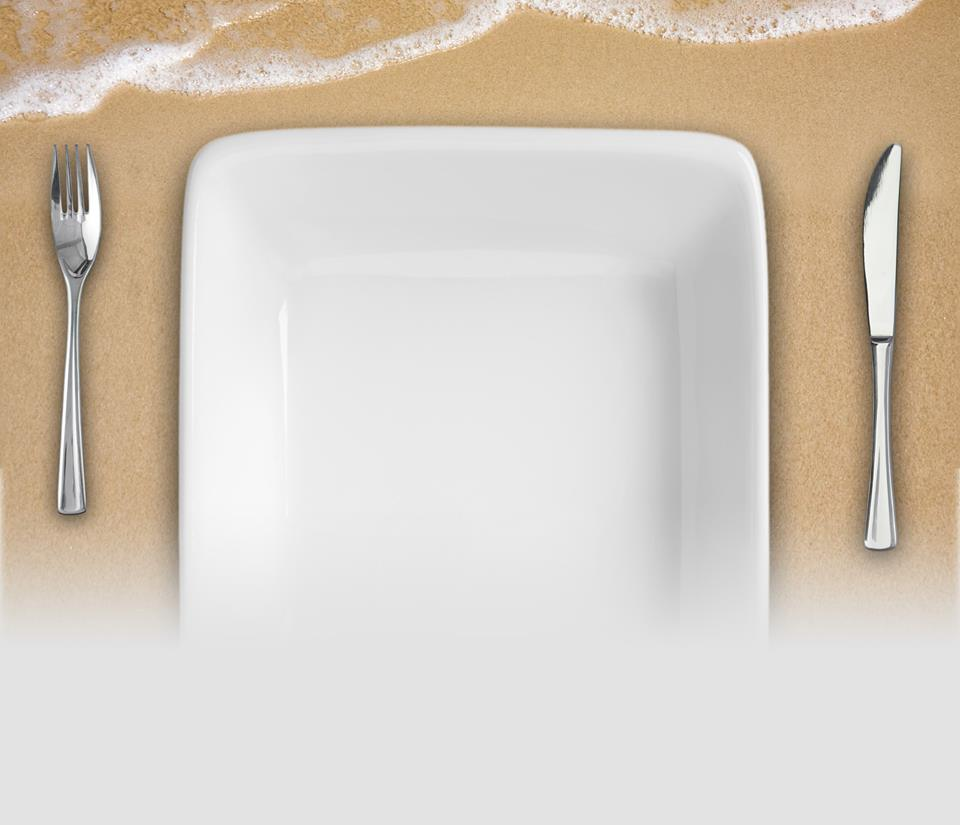
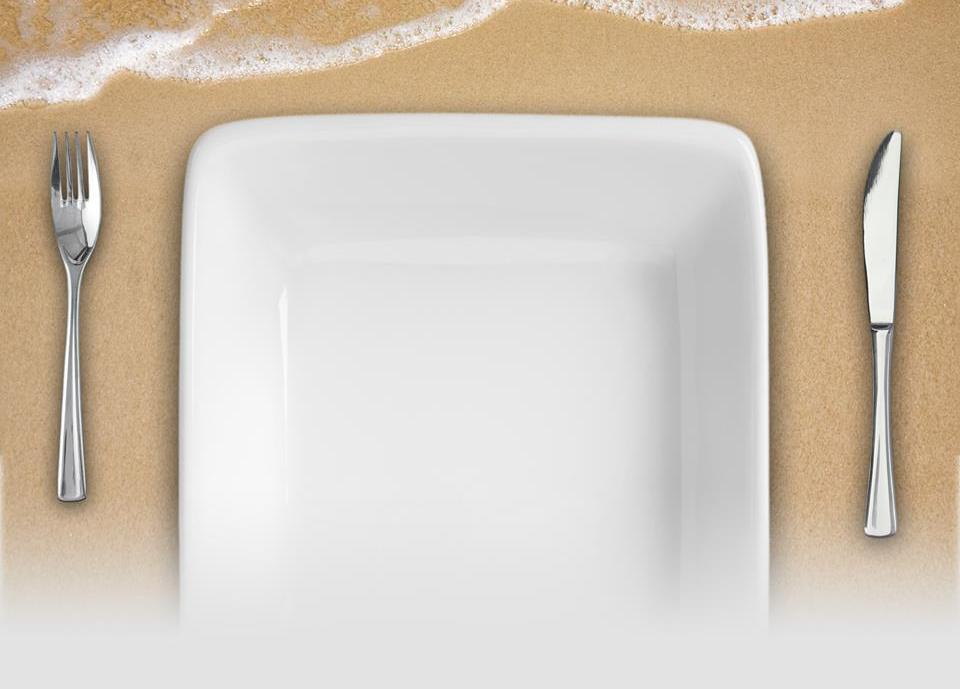
no scroll

diff --git a/css.css b/css.css
@@ -6,8 +6,8 @@
                 }
 
                 #home p {
-					font-size: 160%;
-					line-height: 25px !important;
+					font-size: 100%;
+					line-height: 25px;
 				}
 
                 #home{
@@ -21,13 +21,13 @@
 					top:-10px;
 			    }
 				#website_menu li {
-					font-size:5em !important;
+					font-size:5em;
 				}
 				#nav_bar {
 					padding-right:10% !important;
 				}
 				footer .row {
-					font-size:0.8em !important;
+					font-size:0.8em;
 					
 				}
 				.row {
@@ -50,43 +50,9 @@
 
                 }
 
-            @media(max-width:1050px){
-                 
-               #home p {
-                    
-                    font-size: 60%;
-                    
-                }
-                #home{
-                    
-                    width:300px;
-                    height:200px;
-                    
-                }
-                 #cover {
-                    
-                    height:700px;
-                }
-
-        }
-
-            @media(max-width:600px){
-                
-                #home p {
-                    
-                    font-size: 30%;
-                    
-                    
-                }
-                 #home{
-                    
-                    width:100px;
-                }
-                
-
-            }
             
-       
+            
+ @media(max-width:1300px)    {  
                 body {
                     background: url(images/cover_gallery.jpg);
                     background-size: cover;
@@ -108,12 +74,12 @@
                     z-index: 0;
                     padding:0px;
                     margin-left:10%;
-                    border-radius: 50px 50px 50px 50px;
+                    border-radius: 50px 50px;
                     background: url(images/cover.jpg);
                     background-repeat: no-repeat;
-                    background-size:cover;
                     margin-top:-125px;
-
+					height:610px;
+					
                 }
 				
 				
@@ -135,15 +101,18 @@
 
                 #website_menu li {
                     display: inline;
-                    font-size:4vw;
+                    font-size:4em;
                     font-weight: bold;
                     word-spacing: -5px;
                     font-family:'Barrio', cursive;
-
+					background-color:rgba(255,255,255,0.5);
+					border-radius:10px;
+					
                 }
 				
 				#website_menu {
                     margin-bottom:-5px;
+					
                 }
 
                 header {
@@ -191,17 +160,18 @@
           
                 #home{
                     position: relative;
-                    top: 180px;
+                    top: 146px;
 					margin:auto;
                 }
                 
                 #home h1 {
-                    padding:20px;
+                    padding:2px;
                     font-family: 'Quicksand', sans-serif;
                     font-size: 4vw;
                     color: white;
                     text-shadow: 2px 2px 4px #000000;
                     padding-bottom:20px;
+					margin-right:10%;
                 }
                 #home p {
                     font-family: 'Quicksand', sans-serif;
@@ -209,6 +179,9 @@
                     line-height: 20px;
                     border-top: 1px solid black;
                     color:#602020;
+					width:400px;
+					margin-left:10%;
+					
                 }
 
                 #cover_menu {
@@ -237,6 +210,7 @@
                     font-size: 100%;
                     color:black;
                     padding-top:1%;
+					margin-right:10%;
                 }
 
                 footer{
@@ -262,6 +236,12 @@
                     color:saddlebrown;
                     text-decoration: none;
                     
+                }
+				
+				#footer_home{
+                    top:110px;
+                    padding-top:0;
+					position:relative;
                 }
 
 
@@ -376,7 +356,7 @@
 
                 .gallery_heading h1 {
                     font-family: 'Mogra', cursive;
-                    -webkit-text-stroke-width: 1px;
+                    -webkit-text-stroke-width: 0.5px;
                     -webkit-text-stroke-color: saddlebrown;
                     font-size: 3.2vw;
                     word-spacing: 3px;
@@ -387,7 +367,7 @@
 
                 #nav_bar a{
                     color:white; 
-                    -webkit-text-stroke-width: 0.3px;
+                    -webkit-text-stroke-width: 0.2px;
                     -webkit-text-stroke-color: saddlebrown;
            
                      text-decoration: none;
@@ -396,6 +376,14 @@
                     
                 }   
                 #bar_menu a:hover{
+                    
+                    color:saddlebrown; 
+                    background-color: transparent; 
+                    text-decoration: none;
+                   
+                } 
+				
+				#website_menu a:hover{
                     
                     color:saddlebrown; 
                     background-color: transparent; 
@@ -534,5 +522,41 @@
                     height:200px;
 
                 }
+}
+				
+@media(max-width:1050px){
+                 
+               #home p {
+                    font-size: 60%;
+                    
+                }
+                #home{
+                    
+                    width:300px;
+                    height:170px;
+                    
+                }
+                 #cover {
+                    
+                    height:700px;
+                }
+
+        }
+
+            @media(max-width:600px){
+                
+                #home p {
+                    
+                    font-size: 30%;
+                    
+                    
+                }
+                 #home{
+                    
+                    width:100px;
+                }
+                
+
+            }
 
 

diff --git a/index.html b/index.html
@@ -38,7 +38,7 @@
                 
                  
             </div>
-            <footer class="container-fluid footer_brown">
+            <footer class="container-fluid footer_brown" id="footer_home">
                  
                  <div class="row">
                      <div class="col-lg-3 col-md-3 col-sm-3"></div>
